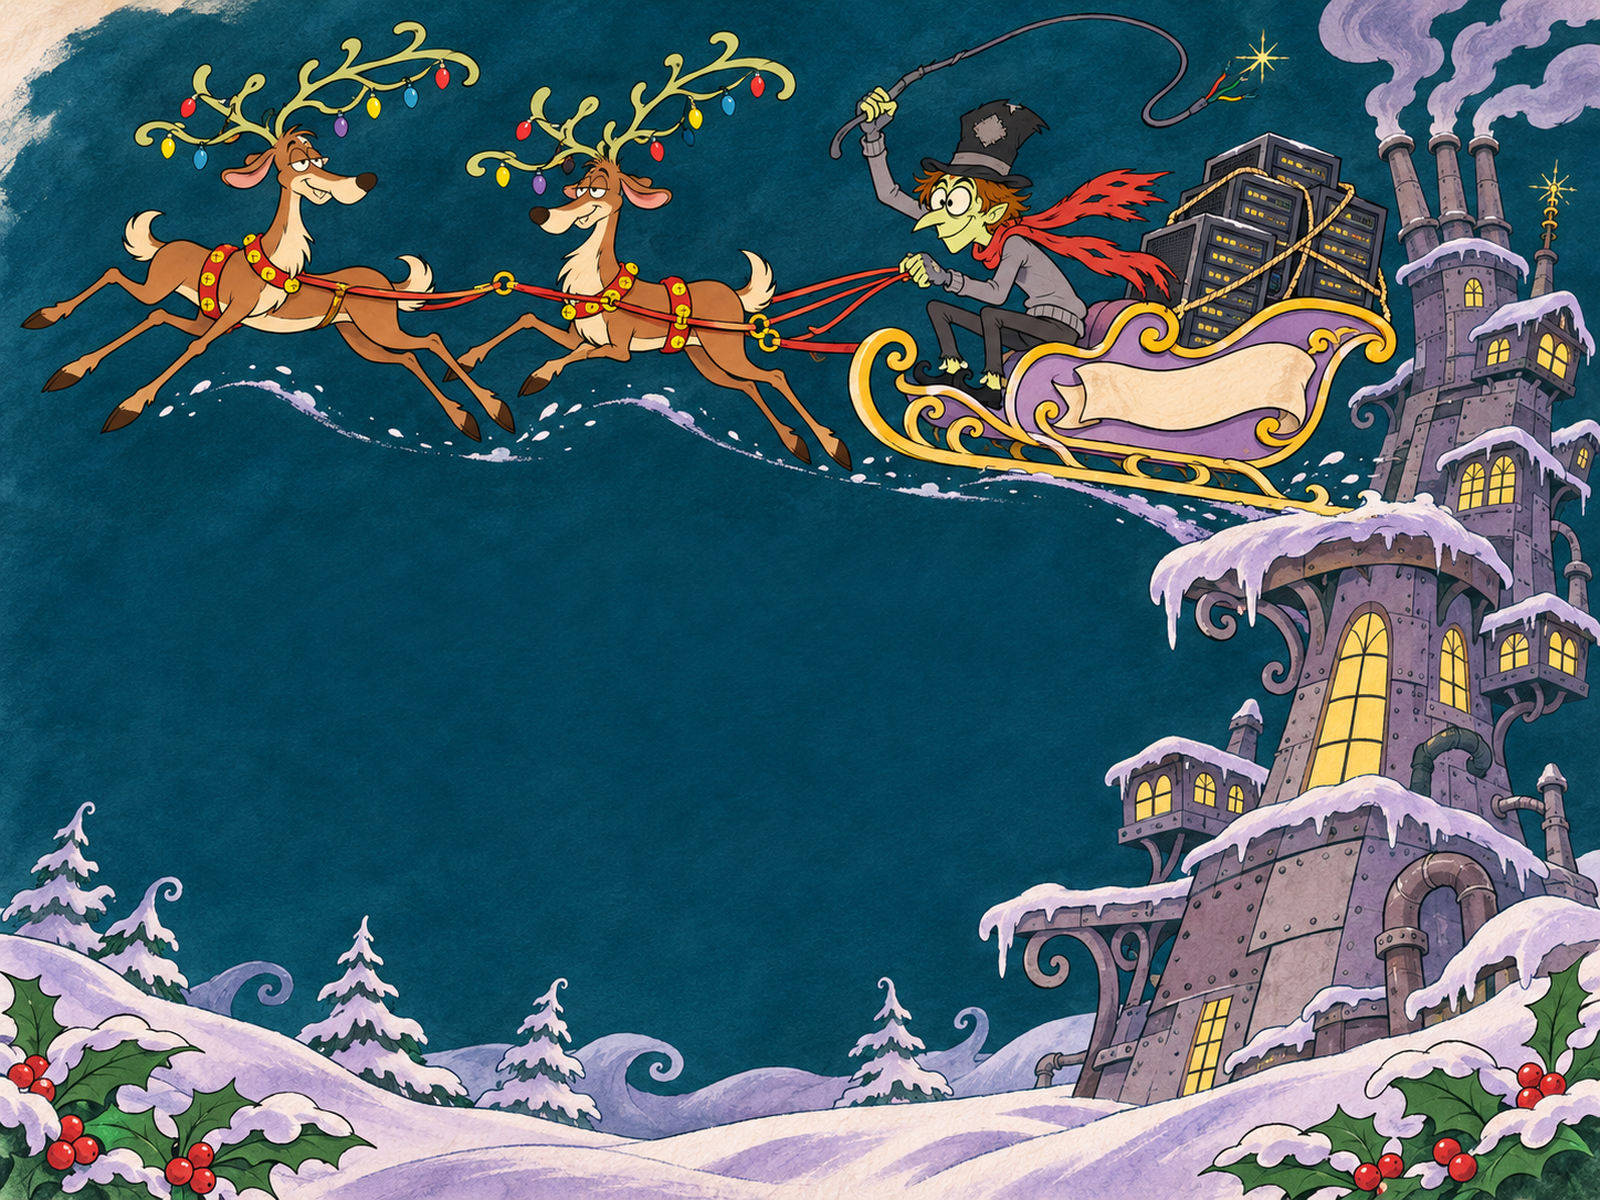
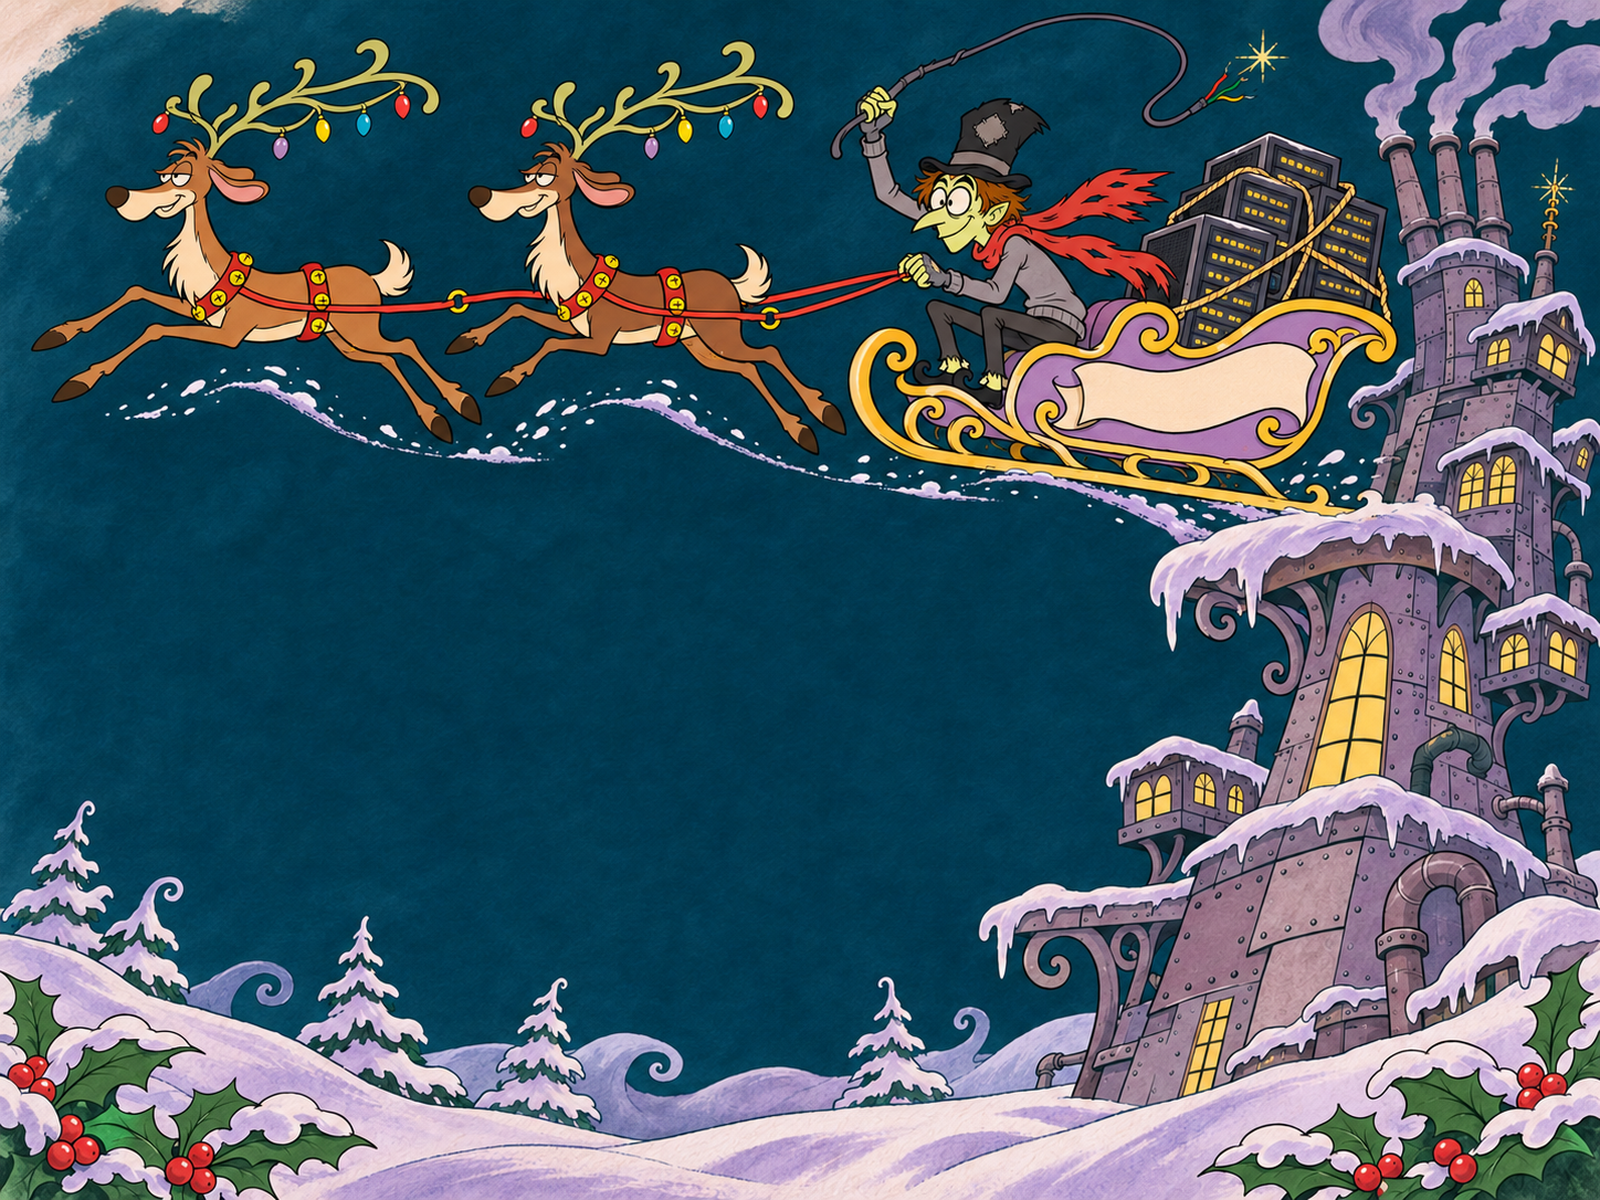
fix: shot 15 reindeer heads face their direction of travel
Claude-Session: https://claude.ai/code/session_01J6uhv9HPpdQF2MoEyE7wdj

diff --git a/docs/asset-prompts.md b/docs/asset-prompts.md
@@ -737,3 +737,15 @@ Absolutely NO text, letters, numbers, logos, watermarks, signatures, glyphs, sym
 Selected revision prompt (first input: initial generation; second input: elves cast sheet):
 
 Revise this illustration with ONE composition correction: the horizontal conveyor belt must be taller and its top surface must be at exactly 75% down the frame, with the belt's solid teal front fascia continuing all the way to the bottom edge, filling the lowest QUARTER. Currently its top is about 84% down: raise top surface to 75% down and extend its front fascia down to bottom. Raise all four boxes and the elves' hands to sit on that higher belt surface. Crop/occlude the elves' lower torsos behind this higher belt. Keep all four distinct elves and their cast likenesses, faces, green hoodies, headsets, hands actively on boxes. NO legs or feet anywhere. Keep the calm plain wall upper third and top garland, warm workshop colors, thin wobbly ink, flat cel character colors and watercolor backgrounds. Keep the straight belt full width, do not introduce any bend. All carton labels completely blank. Absolutely no text, letters, numbers, logos, glyphs, signatures or watermark. Final 4:3 landscape composition.
+## Repaint — shot 15: `public/stills/15.png`
+
+Built-in image_gen; Ram and reindeer cast sheets plus `spike/work/15-old.png` edit target. Visually inspected: both reindeer face left in side profile, reins return rightward to Ram, banner blank, no text or logos, lower-left lyric sky clear. Saved as exactly 1600×1200 PNG with `.venv/bin/python` and proportional Pillow ImageOps.fit (no stretching).
+
+Use case: precise-object-edit. Repaint key still 15 as a finished 4:3 landscape cartoon image, intended 1600x1200.
+INPUT ROLES: image 1 ram.png is exact Ram cast model; image 2 reindeer.png is exact reindeer cast model; image 3 15-old.png is EDIT TARGET and exact composition, framing, palette and background reference. Keep EVERYTHING in image 3 except correct the two reindeer orientations. Preserve tower, snowy roof launch point, ornate lavender-and-gold sleigh with completely BLANK cream side banner, stacked strapped server racks, Ram's pose cracking a cable whip, red scarf streaming right, snow trails, holly corners, trees and large empty deep teal lower-left sky.
+CRITICAL EDIT: BOTH reindeer must run/fly toward LEFT in CLEAN LEFT-FACING SIDE PROFILE. Replace each old backwards-looking head and neck with a natural left-facing head/neck. Every muzzle extends LEFT of its neck, nose at LEFT, single visible side-profile eye looking LEFT, ears and sweeping antlers oriented LEFT with the head. Head continues neck toward direction of travel. Neither deer looks back to right or toward sleigh. Use the running pose from reindeer cast sheet MIRRORED HORIZONTALLY to face LEFT: front legs reach LEFT, hind legs push RIGHT, rump and cream tail at RIGHT end of body. Exactly TWO deer in tandem across upper left and upper center, each fully visible. Red reins run from their bell harnesses back RIGHTWARD to Ram's hands in sleigh at upper right.
+Exact deer cast models: lanky golden-brown bodies, cream chest tufts and bellies, long tan muzzles, dark brown noses, drooping pink-inner ears, sleepy half-lidded eyes, huge curly pale olive antlers with red/yellow/cyan/lavender Christmas bulbs; red harness straps and round gold bells. Preserve individual light/darker brown variations. Ram exact model: sickly yellow-green skin, long pointed nose, huge ivory oval eyes, brown-orange tousled hair, battered patched tall black top hat, grey ribbed sweater, ragged long holly-red scarf, charcoal fingerless gloves, dark skinny trousers, curled black shoes.
+STYLE: original 1960s made-for-TV Christmas cartoon special, thin slightly wobbly black ink, flat cel colors NO character gradients, watercolor washes and dry-brush background texture, curly swooping architecture and spindly limbs. Limited deep teal-blue night, snow white with lavender shadow, holly red, warm window yellow, sickly villain green. Original designs; do not copy Grinch, Whoville, Scrooge McDuck or any existing character.
+Composition unchanged from old still: team and sleigh in upper band launching RIGHT TO LEFT off tower roof at right; tower occupies far right; keep lower half left two-thirds calm empty night sky for later lyrics. Retain reference's quiet sky; any stars sparse at upper edge only. Entire banner is blank. Server rack lights are plain tiny rectangles with no markings.
+ABSOLUTELY NO text, letters, numbers, logos, signatures, watermarks, glyphs or pseudo-writing ANYWHERE. No right-facing deer heads.
+

diff --git a/docs/codex/05-repaint-15.md b/docs/codex/05-repaint-15.md
@@ -1,0 +1,14 @@
+# Brief: repaint key still 15 for "Ram Altman's Christmas Song"
+
+Repaint the still below with your image_gen tool, using the attached cast sheets as the exact models and the attached `15-old.png` for composition, palette and framing (keep everything except the reindeer fix). Look at the result; regenerate if anything under "must" is wrong or any text/letters/numbers/logos appear. Save as a 4:3 PNG of exactly 1600x1200 px at `public/stills/15.png` (crop/resize with Pillow via `.venv/bin/python`; never stretch), overwriting it. Append the prompt to `docs/asset-prompts.md`. Do not ask questions.
+
+## Style (most important)
+A 1960s made-for-TV Christmas cartoon special look: thin, slightly wobbly black ink outlines, flat cel colors with no gradients on characters, watercolor-wash backgrounds with dry-brush texture, curly swooping shapes, exaggerated spindly limbs, slightly limited palette (deep teal-blue night, snow white with lavender shadow, holly red, warm window yellow, sickly villain green). It must be an ORIGINAL design: do not copy the Grinch, Whoville, Scrooge McDuck or any existing character.
+No text, letters, numbers or logos anywhere in any image.
+
+
+## Shot 15: the sleigh launching off the tower roof
+The ornate sleigh (stacked with server racks, a long blank banner on its side) launching off the data-center tower roof at the right, swooping RIGHT-TO-LEFT across a starry night sky, Ram Altman in the sleigh cracking a cable whip.
+- MUST: both reindeer are in clean side profile facing LEFT: muzzle, eyes, ears and antlers all point toward the LEFT edge, the head continuing the line of the neck in the direction of travel. Their front legs reach left, hind legs push off to the right, tails at the right end of each body. NO reindeer turns its head back toward the sleigh; no head faces right. Use the running side-view pose from the reindeer sheet, mirrored to face left if needed.
+- The reins run from the reindeer harnesses back (rightward) to Ram Altman's hands.
+- Keep the lower-left area of calm night sky (roughly the lower half, left two-thirds) free for lyrics, as in the old version.
